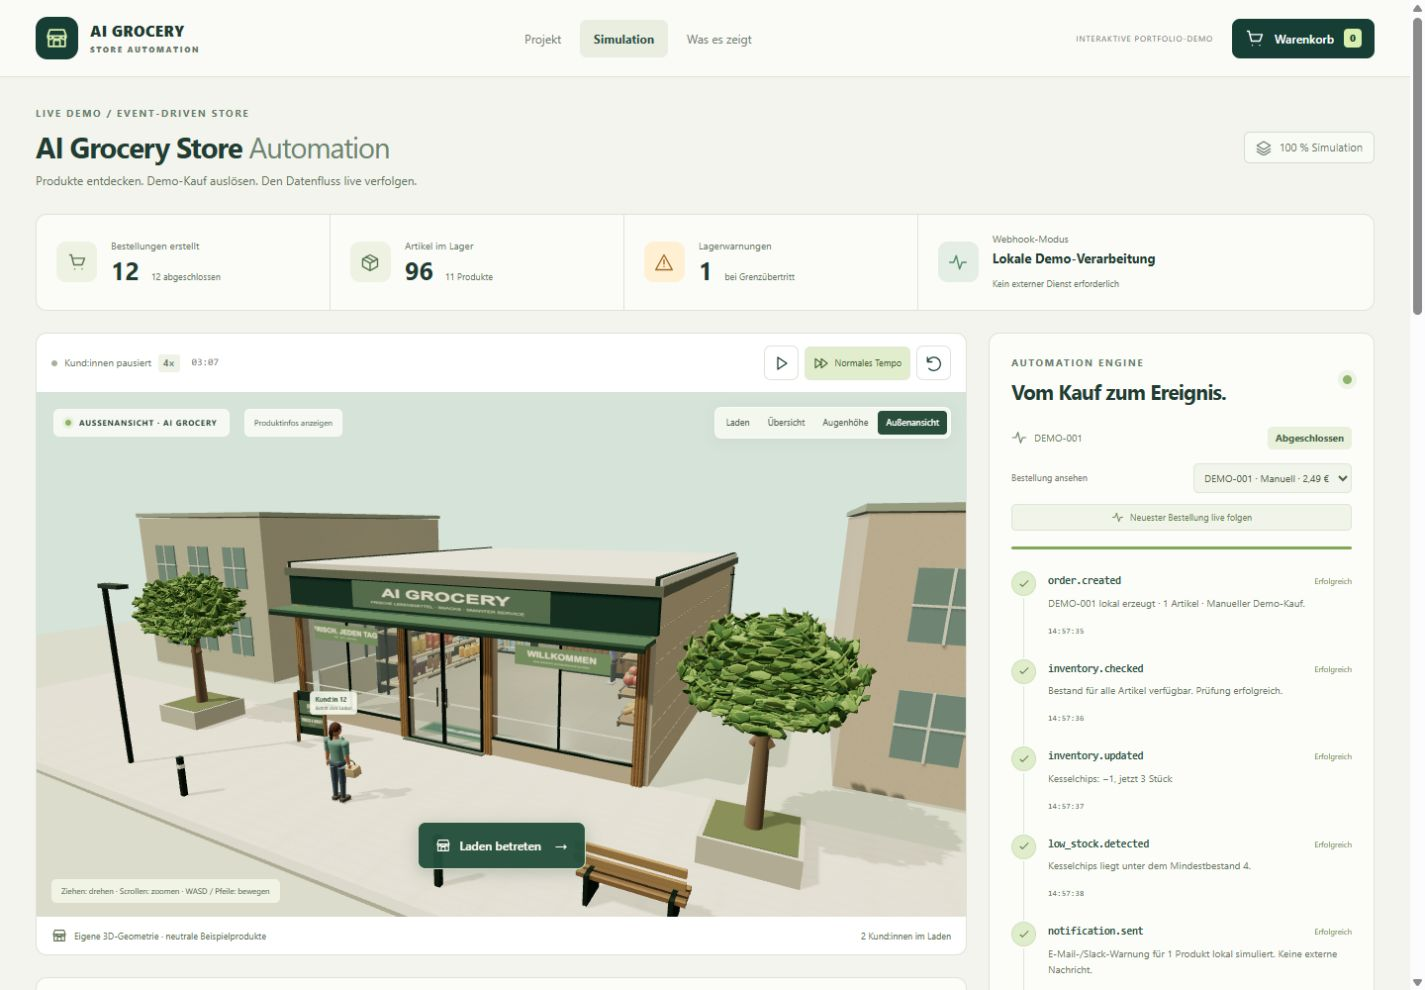
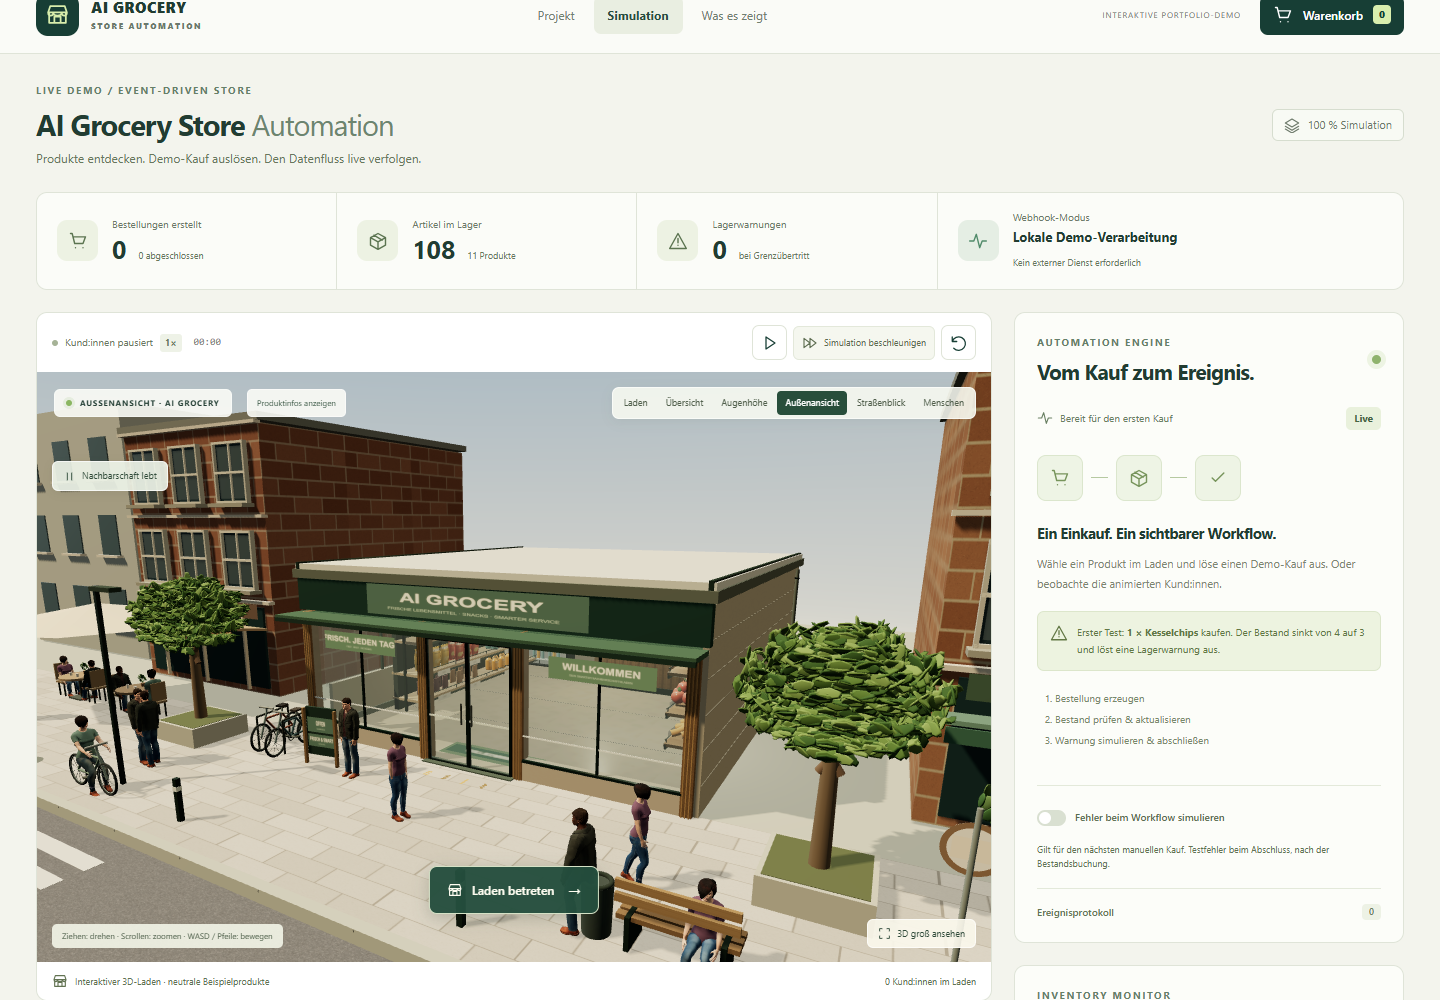
Refresh portfolio case study, interview guide and actual verification images

diff --git a/docs/INTERVIEW_GUIDE.md b/docs/INTERVIEW_GUIDE.md
@@ -1,0 +1,37 @@
+# Das Projekt im Bewerbungsgespräch erklären
+
+## Ein Satz
+
+„Ich habe eine interaktive 3D-Einkaufsdemo konzipiert, in der man den gesamten Weg von der Produktwahl bis zur Lagerwarnung beobachten kann; ein optionaler n8n-Workflow bestätigt echte Testereignisse.“
+
+## Vorführung in zwei Minuten
+
+1. Den öffentlichen Simulationslink öffnen. Die Kund:innen zunächst pausiert lassen.
+2. Chips auswählen, Warenkorb zeigen und einen Demo-Kauf auslösen. Auf Bestand 4 → 3, Mindestbestand 4 und die sechs Ereignisse hinweisen.
+3. Fehler-Schalter aktivieren, Wasser kaufen und Retry zeigen: Bestand bleibt nach der Wiederholung bei 14.
+4. Kund:innen starten: automatische Käufe verwenden denselben Prozessor.
+5. Bei einer vorbereiteten lokalen n8n-Vorführung den Empfangsbeleg mit Ausführungs-ID zeigen. Auf fremden Geräten funktioniert die öffentliche Demo vollständig lokal.
+
+## Entscheidungen, die du am Code erklären kannst
+
+| Frage                                   | Beleg / Erklärung                                                                                          |
+| --------------------------------------- | ---------------------------------------------------------------------------------------------------------- |
+| Warum ein Reducer?                      | Bestelllogik unabhängig vom 3D-Rendering; src/domain/simulation.ts ist ohne WebGL testbar.                 |
+| Warum Cent-Werte?                       | Ganze Zahlen verhindern übliche Dezimalrundungsfehler; Preise bleiben im Bestellsnapshot erhalten.         |
+| Was passiert bei gleichzeitigen Käufen? | Eine Queue prüft alle Artikel erneut unmittelbar vor der gemeinsamen Buchung.                              |
+| Warum kein doppelter Abzug beim Retry?  | inventoryApplied bleibt erhalten; nur der fehlgeschlagene Abschluss wird wiederholt.                       |
+| Was bedeutet observierbar?              | Pro Bestellung sichtbar: Status, Versuch, Zeitpunkt, Beschreibung und Ereignisprotokoll.                   |
+| Was macht n8n?                          | Empfängt order.completed, validiert Testdaten, erzeugt simulierte Warnungsdaten und bestätigt den Empfang. |
+| Wie bleibt die Demo unabhängig?         | Kein Endpunkt nötig; ein Webhook-Ausfall nimmt die lokale Lagerbuchung nicht zurück.                       |
+
+## Deine Rolle korrekt darstellen
+
+Konzept, Anforderungen und Zielbild wurden von Nico89x vorgegeben; Code, Dokumentation und Prüfungen entstanden mit KI-Unterstützung. Der eigene Beitrag und der Einsatz von Hilfsmitteln werden offen beschrieben. Nicht behaupten, alle Charaktermodelle selbst modelliert oder die Implementierung vollständig ohne Unterstützung geschrieben zu haben.
+
+## Grenzen offen benennen
+
+Keine Produktionskunden, Zahlung, echte Bestellung, Nachricht oder KI-API. Kein dauerhaftes Lager, kein serverseitiges Warenwirtschaftssystem und keine garantierte externe Zustellung. Der n8n-Empfänger ist stateless: ein Ereignisschlüssel ist noch keine dauerhafte Deduplizierung. Mobile Browseransichten wurden getestet; echte Geräte müssen separat geprüft werden.
+
+## Nächster technischer Schritt
+
+Ein Backend mit Datenbank, transaktionaler Bestandsbuchung, dauerhafter Idempotenz und Outbox für externe Ereignisse. Erst dann lassen sich Persistenz und zuverlässige Zustellung unabhängig von einer geöffneten Browserseite garantieren.

diff --git a/docs/DEMO_VIDEO.md b/docs/DEMO_VIDEO.md
@@ -4,7 +4,7 @@
 
 Die Aufnahme zeigt die tatsächlich gerenderte Anwendung: Außenansicht, Innenraum, Produktdetails, Warenkorb, Chips-Kauf mit Lagerwarnung, Fehler bei einem Wasserkauf, Retry und animierte Kund:innen. Kein Ton; deutsche WebVTT-Untertitel sind im eingebetteten Player aktivierbar. Es wurden keine Erfolgswerte nachträglich eingesetzt.
 
-Das Original wurde mit Playwright bei 1440 × 1000 Pixeln und 25 Bildern/s aufgenommen. Die ersten sieben Sekunden der Ladephase wurden abgeschnitten. Der H.264-Export dauert **49,72 Sekunden**, ist ungefähr 2,3 MB groß und verwendet Faststart. Der Player lädt das Video erst bei Nutzung, nicht beim Öffnen der Simulation.
+Die aktuelle Aufnahme vom 12. Oktober 2026 wurde mit Playwright bei 1440 × 1000 Pixeln und 25 Bildern/s aufgenommen. Der ungekürzte H.264-Export dauert **45,36 Sekunden**, ist **3.685.304 Bytes** groß und verwendet Faststart. Der Player lädt das Video erst bei Nutzung, nicht beim Öffnen der Simulation. Die Aufnahme enthält die neuen texturierten Menschen, einschließlich Figurenwechsel.
 
 ## Aufnahme reproduzieren
 
@@ -12,10 +12,10 @@ Nach Installation der Projektabhängigkeiten:
 
 ```bash
 pnpm exec playwright install chromium
-pnpm dev --port 4173
-# In einem zweiten Terminal:
+pnpm build
 pnpm demo:record
-ffmpeg -ss 7 -i work/video/demo-source.webm -c:v libx264 -preset fast -crf 27 -pix_fmt yuv420p -movflags +faststart -an public/demo.mp4
+ffmpeg -y -i work/video/demo-source.webm -c:v libx264 -preset fast -crf 26 -pix_fmt yuv420p -movflags +faststart -an public/demo.mp4
+pnpm build
 ```
 
-FFmpeg ist nur für den Videoexport erforderlich, nicht zum Starten der App. `DEMO_URL` kann die Aufnahme auf eine andere lokale URL richten. Ladezeit und Schrittdauer können je nach Gerät abweichen; Schnittpunkt und Untertitel dann anhand der neuen Aufnahme anpassen.
+FFmpeg ist nur für den Videoexport erforderlich, nicht zum Starten der App. Ohne laufende Vorschau startet und beendet das Skript selbst den Produktionsserver auf Port 4175. `DEMO_URL` kann die Aufnahme auf eine andere laufende lokale URL richten. Das Skript prüft die gezeigten Kauf-/Retry-Ergebnisse sowie Browserfehler und erzeugt Screenshots, Kapitelzeiten und deutsche Untertitel aus den tatsächlich gemessenen Zeiten. Bei einer neuen Aufnahme können Ladezeit und Schrittdauer je nach Gerät abweichen; der Export benötigt keinen festen Schnittpunkt.

diff --git a/docs/CASE_STUDY.md b/docs/CASE_STUDY.md
@@ -8,7 +8,7 @@ Eine Automation ist in einem Portfolio schwer einzuschätzen, wenn nur ein Workf
 
 ## Rolle und Arbeitsweise
 
-Nico89x hat Konzept, Zielbild und Anforderungen vorgegeben und die Weiterentwicklung gesteuert. Implementierung, eigene Modelle, Dokumentation und technische Prüfungen wurden mit KI-Unterstützung erstellt. Der veröffentlichte Code und die Prüfnachweise machen die Lösung überprüfbar. Es werden keine handgeschriebene Entwicklungsgeschichte, berufliche Qualifikationen oder nachgewiesenen Geschäftserfolge behauptet.
+Nico89x hat Konzept, Zielbild und Anforderungen vorgegeben und die Weiterentwicklung gesteuert. Implementierung, eigene Ladengeometrie, Animationen, Dokumentation und technische Prüfungen wurden mit KI-Unterstützung erstellt. Der veröffentlichte Code und die Prüfnachweise machen die Lösung überprüfbar. Es werden keine handgeschriebene Entwicklungsgeschichte, berufliche Qualifikationen oder nachgewiesenen Geschäftserfolge behauptet.
 
 ## Drei Entscheidungen, die sich erklären lassen
 
@@ -30,7 +30,7 @@ Nico89x hat Konzept, Zielbild und Anforderungen vorgegeben und die Weiterentwick
 
 Portfolio-Simulation: keine Zahlungen, keine echten Bestellungen, keine echten E-Mails oder Slack-Nachrichten. NOA antwortet regelbasiert. Der Lagerbestand liegt im Browser-Arbeitsspeicher. Das Projekt enthält keine Produktionsdaten, Accounts oder externen KI-API-Schlüssel.
 
-Geometrie und Materialtexturen sind selbst erzeugt. Natürlichere Proportionen, Stoffstruktur, Gelenke, Gesichter und Produktformen verbessern die Echtzeitdarstellung. Sie bleibt eine stilisierte 3D-Szene und erreicht nicht die Qualität eines fotorealistischen Offline-Renderings.
+Laden, Roboter, Produkte, Umgebung und prozedurale Materialtexturen entstehen aus Projektcode. Die texturierten Menschen basieren auf lokal gebündelten CC0-MakeHuman-Derivaten mit eigenen Anpassungen und Animationen; [Herkunft und Lizenz](../THIRD_PARTY_ASSETS.md) sind dokumentiert. Sie bleibt eine stilisierte 3D-Szene und erreicht nicht die Qualität eines fotorealistischen Offline-Renderings.
 
 Der n8n-Empfänger ist ein stateless Testworkflow. Er bestätigt Empfang und Konsistenz, betreibt aber kein dauerhaftes Warenwirtschaftssystem. Die öffentliche Demo nutzt standardmäßig lokale Verarbeitung; eine lokale n8n-Instanz ist nicht automatisch öffentlich erreichbar.
 
